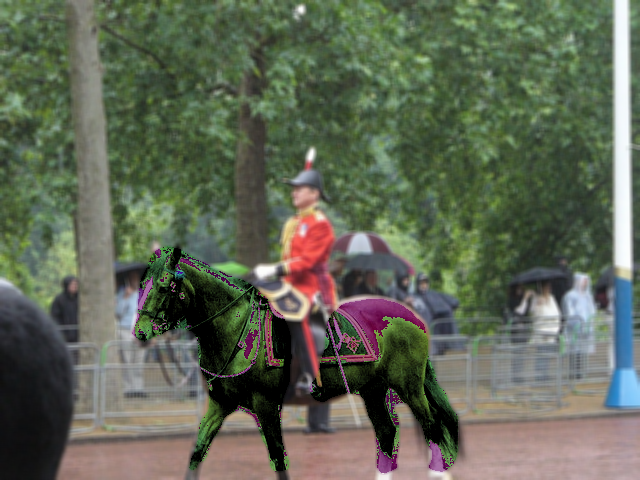
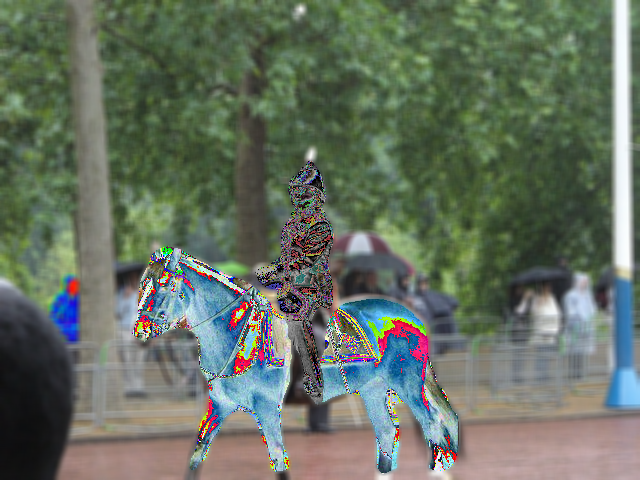
Updated image redraw behaviour

Changed region(s): [[0.1875, 0.3125, 0.7188, 1.0], [0.0625, 0.5625, 0.125, 0.7188]]

diff --git a/MaskProject/MaskManager.py b/MaskProject/MaskManager.py
@@ -110,21 +110,21 @@ class MaskManager:
 
         return newImage
 
-    def ReDrawCurrentImage(self):
+    def DisplayCurrentImage(self):
         pixmap = QPixmap(self.imageFullPath + self.editFilename)
         self.displayGraphicLabel.setPixmap(pixmap)
 
         if self.showOutline is True:
             self.ShowOutline()
 
-    def DrawBaseImage(self):
+    def DisplayBaseImage(self):
         pixmap = QPixmap(self.imageFullPath + self.inputFilename)
         self.displayGraphicLabel.setPixmap(pixmap)
 
         self.newGroupMaskWindow.clearSelection()
 
     #Completely redraws the image from the ground up, actually completely unused?
-    def DrawCurrentImage(self):
+    def RedrawCurrentImage(self):
         drawingImg = self.baseGraphic.copy()
 
         for mask in self.selectedImage.maskList:
@@ -140,11 +140,20 @@ class MaskManager:
 
             totalBrightness = mask.maskSettings.brightness
             totalSaturation = mask.maskSettings.saturation
+            totalColor1 = mask.maskSettings.colorCurve1
+            totalColor2 = mask.maskSettings.colorCurve2
+            totalColor3 = mask.maskSettings.colorCurve3
+            channel = mask.maskSettings.colorChannel
 
             for settings in groupSettings:
                 totalBrightness += settings.brightness
                 totalSaturation += settings.saturation
+                totalColor1 += settings.colorCurve1
+                totalColor2 += settings.colorCurve2
+                totalColor3 += settings.colorCurve3
 
+            if totalColor1 != 0 or totalColor2 != 0 or totalColor3 != 0:
+                drawingImg = self.curveTool.ApplyColorCurve(totalColor1, totalColor2, totalColor3, channel, drawingImg)
             if totalBrightness != 0:
                 perMaskImg = self.simpleEdits.DrawBrightness(totalBrightness, perMaskImg)
             if totalSaturation != 0:
@@ -153,8 +162,6 @@ class MaskManager:
             drawingImg = np.where(mask.maskTrueFalse == True, perMaskImg, drawingImg)
 
         cv2.imwrite(self.imageFullPath + self.editFilename, drawingImg)
-        pixmap = QPixmap(self.imageFullPath + self.editFilename)
-        self.displayGraphicLabel.setPixmap(pixmap)
         self.selectedImage.currentGraphic = drawingImg
 
         if self.showOutline is True:
@@ -162,41 +169,6 @@ class MaskManager:
 
     # By only operating on the bounding box of the mask, this version gains a little speed
     def DrawMask(self, mask):
-        drawingImg = self.baseGraphic.copy()[mask.minX:mask.maxX, mask.minY:mask.maxY]
-
-        groupSettings = []
-        for cMask in self.selectedImage.classList:
-            if cMask.maskList.__contains__(mask):
-                groupSettings.append(cMask.maskSettings)
-
-        for gMask in self.selectedImage.groupList:
-            if gMask.maskList.__contains__(mask):
-                groupSettings.append(gMask.maskSettings)
-
-        totalBrightness = mask.maskSettings.brightness
-        totalSaturation = mask.maskSettings.saturation
-
-        for settings in groupSettings:
-            totalBrightness += settings.brightness
-            totalSaturation += settings.saturation
-
-        if totalBrightness != 0:
-            drawingImg = self.simpleEdits.DrawBrightness(totalBrightness, drawingImg)
-        if totalSaturation != 0:
-            drawingImg = self.simpleEdits.DrawSaturation(totalSaturation, drawingImg)
-
-        blankImg = self.baseGraphic.copy()
-        blankImg[mask.minX:mask.maxX, mask.minY:mask.maxY] = drawingImg
-        mergedImg = np.where(mask.maskTrueFalse == True, blankImg, self.selectedImage.currentGraphic)
-
-        cv2.imwrite(self.imageFullPath + self.editFilename, mergedImg)
-        pixmap = QPixmap(self.imageFullPath + self.editFilename)
-        self.displayGraphicLabel.setPixmap(pixmap)
-        self.selectedImage.currentGraphic = mergedImg
-
-    #Draw mask with curvetool
-    def DrawMaskWithCurveTool(self, mask):
-
         drawingImg = self.baseGraphic.copy()[mask.minX:mask.maxX, mask.minY:mask.maxY]
 
         groupSettings = []
@@ -234,8 +206,6 @@ class MaskManager:
         mergedImg = np.where(mask.maskTrueFalse == True, blankImg, self.selectedImage.currentGraphic)
 
         cv2.imwrite(self.imageFullPath + self.editFilename, mergedImg)
-        pixmap = QPixmap(self.imageFullPath + self.editFilename)
-        self.displayGraphicLabel.setPixmap(pixmap)
         self.selectedImage.currentGraphic = mergedImg
 
     def DrawSelectedMask(self):
@@ -243,10 +213,9 @@ class MaskManager:
             self.drawTimer = timeit.default_timer()
 
             for mask in self.selectedMask.GetMasks():
-                self.DrawMaskWithCurveTool(mask)
+                self.DrawMask(mask)
 
-            if self.showOutline is True:
-                self.ShowOutline()
+            self.DisplayCurrentImage()
 
     def ShowOutline(self):
         outlines = np.ones(self.selectedImage.currentGraphic.shape, dtype=np.uint8)
@@ -264,7 +233,7 @@ class MaskManager:
     def ShowOutlineToggle(self):
         print("Toggle show outline")
         self.showOutline = not self.showOutline
-        self.ReDrawCurrentImage()
+        self.DisplayCurrentImage()
 
     def ShowCreateOutlines(self):
         outlines = np.ones(self.selectedImage.currentGraphic.shape, dtype=np.uint8)
@@ -331,6 +300,8 @@ class MaskManager:
 
         if self.selectedMask.maskName == groupName:
             self.selectedMask = self.selectedImage.maskList[0]
+
+        self.RedrawCurrentImage()
 
     def BrightnessChange(self, sliderValue):
         self.selectedMask.maskSettings.brightness = sliderValue

diff --git a/MaskProject/main.py b/MaskProject/main.py
@@ -12,13 +12,13 @@ class MaskUI:
     def TabSwitch(self, index):
         if index == 0:
             #print("Switched to Mask Selection tab")
-            self.maskManager.ReDrawCurrentImage()
+            self.maskManager.DisplayCurrentImage()
         if index == 1:
             #print("Switched to Group Creation tab")
-            self.maskManager.DrawBaseImage()
+            self.maskManager.DisplayBaseImage()
         if index == 2:
             #print("Switched to Saturation/Brightness tab")
-            self.maskManager.ReDrawCurrentImage()
+            self.maskManager.DisplayCurrentImage()
             self.sliderBrightness.setSliderPosition(self.maskManager.getCurrentBrightness())
             self.sliderSaturation.setSliderPosition(self.maskManager.getCurrentSaturation())
         if index == 3:
@@ -28,10 +28,10 @@ class MaskUI:
             self.lineEditSlider2.setSliderPosition(value2)
             self.lineEditSlider3.setSliderPosition(value3)
             self.colorChannelSelect.setCurrentText(channel)
-            self.maskManager.ReDrawCurrentImage()
+            self.maskManager.DisplayCurrentImage()
         if index == 4:
             #print("Switched to Blur Filter tab")
-            self.maskManager.ReDrawCurrentImage()
+            self.maskManager.DisplayCurrentImage()
 
     def UpdateCurveToolWindow(self):
         curveToolPixmap = QPixmap('imageData/plot.png')
